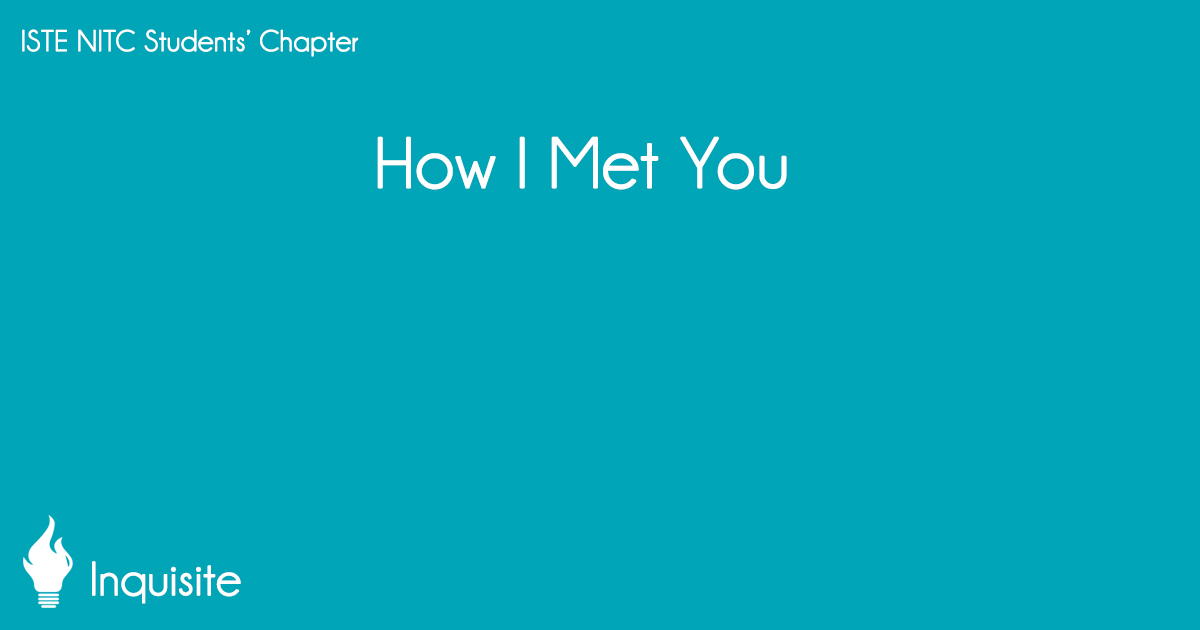
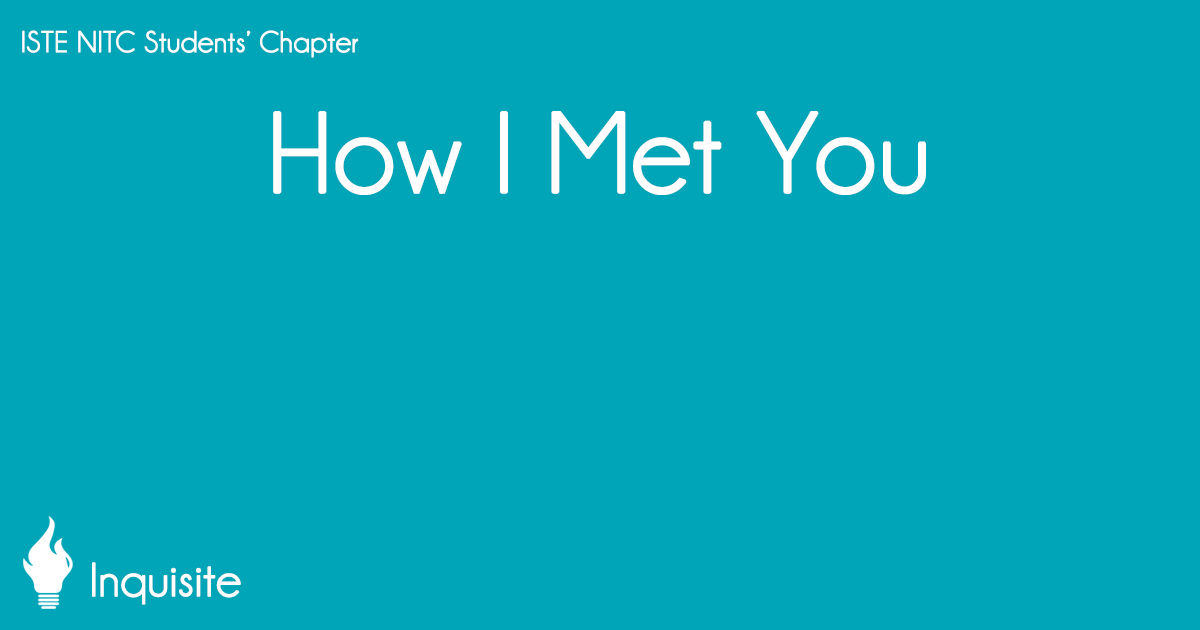
Fb fix

diff --git a/app/Http/Controllers/HimyController.php b/app/Http/Controllers/HimyController.php
@@ -63,10 +63,11 @@ class HimyController extends Controller {
 			$img = Image::make(url('images/himy.jpg'));
 			$fb = Image::make(url('images/himy/s.jpg'));
 			$img->insert($fb,'top-left',525,240);
-
-			$img->text($story->user->name." met ".$story->person, 600, 400, function($font) {
+			$text = $story->user->name." met ".$story->person;
+	
+			$img->text($text, 600, 400, function($font) {
 			    $font->file(public_path('font/champagne.ttf'));
-			    $font->size(40);
+			    $font->size(70);
 			    $font->color('#ffffff');
 			    $font->align('center');
 			    $font->valign('center');
